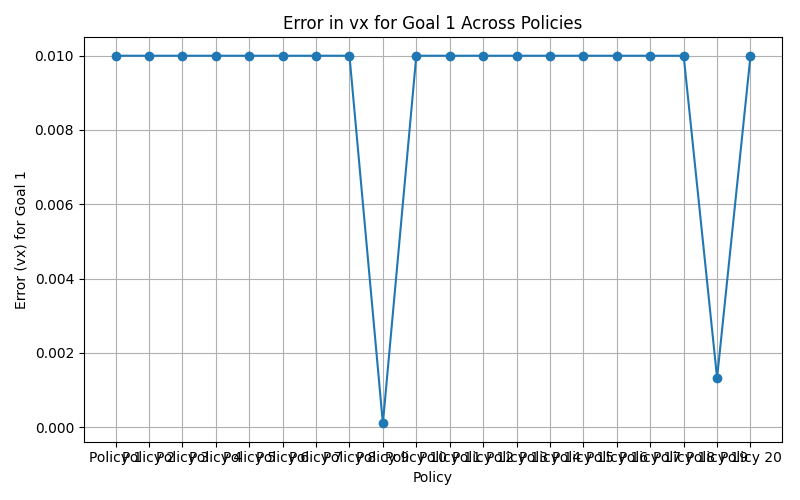
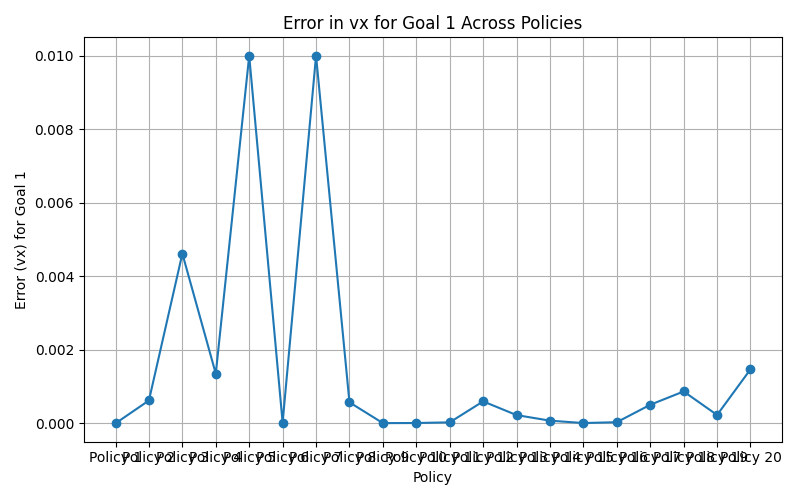
try to pretrain on multiple goals

Changed region(s): [[0.0312, 0.09, 0.9688, 0.87], [0.8125, 0.78, 0.875, 0.81], [0.9375, 0.09, 0.9688, 0.12]]

diff --git a/iterative_supervised_learning/examples/iterative_algorithm/behavioral_cloning_train_vc_policy.py b/iterative_supervised_learning/examples/iterative_algorithm/behavioral_cloning_train_vc_policy.py
@@ -1,0 +1,251 @@
+import torch
+import torch.nn as nn
+from torch.utils.data import DataLoader
+from omegaconf import OmegaConf
+
+from simulation import Simulation
+from contact_planner import ContactPlanner
+import utils
+import pinocchio as pin
+from database import Database
+
+import numpy as np
+# import matplotlib.pyplot as plt
+# import matplotlib
+# matplotlib.use('TkAgg')
+import random
+import hydra
+import os
+from tqdm import tqdm
+from datetime import datetime
+import h5py
+import pickle
+import wandb
+
+# set random seet for reproducability
+# seed = 42
+# random.seed(seed)
+# np.random.seed(seed)
+# torch.manual_seed(seed)
+
+# login to wandb
+wandb.login()
+
+
+class BehavioralCloning():  
+
+    def __init__(self, cfg):        
+        # configuration file (containing the hyper/parameters)
+        self.cfg = cfg
+        
+        # Model Parameters
+        self.action_type = cfg.action_type
+        self.normalize_policy_input = cfg.normalize_policy_input
+        
+        # Data related parameters 
+        self.n_state = cfg.n_state
+        self.n_action = cfg.n_action
+        self.goal_horizon = cfg.goal_horizon
+        
+        # Network related parameters
+        self.criterion = nn.L1Loss()
+        self.device = torch.device('cuda' if torch.cuda.is_available() else 'cpu')
+        print('Nvidia GPU availability is ' + str(torch.cuda.is_available()))
+        
+        # Training properties
+        self.n_epoch = cfg.n_epoch  # per iteration
+        self.batch_size = cfg.batch_size
+        self.n_train_frac = cfg.n_train_frac
+        self.learning_rate = cfg.learning_rate
+
+    
+    def initialize_network(self, input_size=0, output_size=0, num_hidden_layer=3, hidden_dim=512, batch_norm=True):
+        """initialize policy network
+
+        Args:
+            input_size (int, optional): input dimension size (state + goal). Defaults to 0.
+            output_size (int, optional): output dimension size (action). Defaults to 0.
+            num_hidden_layer (int, optional): number of hidden layers. Defaults to 3.
+            hidden_dim (int, optional): number of nodes per hidden layer. Defaults to 512.
+            batch_norm (bool, optional): if 1D Batch normalization should be performed. Defaults to True.
+
+        Returns:
+            network: the created pytorch policy network
+        """           
+        from networks import GoalConditionedPolicyNet
+        
+        network = GoalConditionedPolicyNet(input_size, output_size, num_hidden_layer=num_hidden_layer, 
+                                                hidden_dim=hidden_dim, batch_norm=batch_norm).to(self.device)
+        print("Policy Network initialized")
+        return network
+    
+
+    def train_network(self, network, batch_size=256, learning_rate=0.002, n_epoch=150, network_save_frequency=10):
+        """Train the policy network
+
+        Args:
+            network (_type_): policy network to train
+            batch_size (int, optional): training batch size. Defaults to 256.
+            learning_rate (float, optional): training learning rate. Defaults to 0.002.
+            n_epoch (int, optional): training epochs. Defaults to 150.
+
+        Returns:
+            network: the trained policy network
+        """             
+        
+        # get the training dataset size (use whole dataset)
+        train_set_size = len(self.database)
+
+        print("Dataset size: " + str(train_set_size))
+        print(f'Batch size: {batch_size}')
+        print(f'learning rate: {learning_rate}')
+        print(f'num of epochs: {n_epoch}')
+
+        # define training and test set size
+        n_train = int(self.n_train_frac*train_set_size)
+        n_test = train_set_size - n_train
+        
+        print(f'training data size: {n_train}')
+        print(f'validation data size: {n_test}')
+        
+        # Split data into training and validation
+        train_data, test_data = torch.utils.data.random_split(self.database, [n_train, n_test])
+        train_loader = DataLoader(train_data, batch_size, shuffle=True, drop_last=True)
+        test_loader = DataLoader(test_data, batch_size, shuffle=True, drop_last=True)
+        
+        # define training optimizer
+        
+        self.optimizer = torch.optim.Adam(network.parameters(), lr=learning_rate)
+            
+        tepoch = tqdm(range(n_epoch))
+        
+        # main training loop
+        for epoch in tepoch:
+            # set network to training mode
+            network.train()
+            
+            # training loss
+            train_loss, valid_loss = [], []
+            
+            # train network
+            for x, y in train_loader:
+                self.optimizer.zero_grad()
+                x, y = x.to(self.device).float(), y.to(self.device).float()
+                y_pred = network(x)
+                loss = self.criterion(y_pred, y)
+                
+                loss.backward()
+                self.optimizer.step()
+                train_loss.append(loss.item())
+            
+
+            # test network
+            test_running_loss = 0
+            network.eval()
+            for z, w in test_loader:
+                z, w = z.to(self.device).float(), w.to(self.device).float()
+                w_pred = network(z)
+                test_loss = self.criterion(w_pred, w)
+                valid_loss.append(test_loss.item())
+                
+            train_loss_avg = np.mean(train_loss)
+            valid_loss_avg = np.mean(valid_loss)
+            tepoch.set_postfix({'training loss': train_loss_avg,
+                                'validation loss': valid_loss_avg})
+            
+            # wandb log
+            wandb.log({'Training Loss': train_loss_avg,
+                       'Validation Loss': valid_loss_avg})
+            
+            if epoch>0 and epoch%network_save_frequency==0:
+                self.save_network(network, name=self.database.goal_type+'_'+str(epoch))
+        
+        # save final network
+        self.save_network(network, name=self.database.goal_type+'_'+str(n_epoch))    
+            
+        return network
+    
+    
+    def save_network(self, network, name='policy'):
+        """save trained network
+
+        Args:
+            network (_type_): trained policy network
+            name (str, optional): name of the network to save. Defaults to 'policy'.
+        """        
+        
+        savepath =  self.network_savepath + "/"+name+".pth"
+        
+        payload = {'network': network,
+                #    'optimizer': self.optimizer,
+                #    'scheduler': self.scheduler,
+                   'norm_policy_input': None}
+        
+        # save normalization parameters
+        if self.normalize_policy_input:
+            payload['norm_policy_input'] = self.database.get_database_mean_std()
+        
+        torch.save(payload, savepath)
+        print('Network Snapshot saved')
+        
+        
+    def run(self):
+        """run training
+        """           
+        
+        # NOTE: Initialize Network
+        self.cc_input_size = self.n_state + (self.goal_horizon * 3 * 4)
+        self.vc_input_size = self.n_state + 5  # phi, vx, vy, w
+        
+        self.output_size = self.n_action
+        
+        # Initialize policy network
+        self.vc_network = self.initialize_network(input_size=self.vc_input_size, output_size=self.output_size, 
+                                                    num_hidden_layer=self.cfg.num_hidden_layer, hidden_dim=self.cfg.hidden_dim,
+                                                    batch_norm=True)
+        
+        self.cc_network = self.initialize_network(input_size=self.cc_input_size, output_size=self.output_size, 
+                                                    num_hidden_layer=self.cfg.num_hidden_layer, hidden_dim=self.cfg.hidden_dim,
+                                                    batch_norm=True)
+        
+        # NOTE: Load database
+        self.database = Database(limit=self.cfg.database_size, norm_input=self.normalize_policy_input)
+        # filename = '/home/atari_ws/data/behavior_cloning/trot/bc_single_gait_multi_goal_with_stop/dataset/database_0.hdf5'
+        filename = '/home/atari_ws/iterative_supervised_learning/examples/iterative_algorithm/data/behavior_cloning/trot/Dec_04_2024_16_51_02/dataset/database_677971.hdf5'
+        self.database.load_saved_database(filename=filename)
+        
+        # Network saving
+        directory_path = os.path.dirname(filename)
+        self.network_savepath = directory_path + '/../network'
+        os.makedirs(self.network_savepath, exist_ok=True)
+        
+        # NOTE: Train Policy
+        wandb.init(project='bc_single_gait_multi_goal_with_stop', config={'goal_type':'cc'}, name='cc_training')
+        print('=== Training CC Policy ===')
+        self.database.set_goal_type('cc')
+        self.cc_network = self.train_network(self.cc_network, batch_size=self.batch_size, learning_rate=self.learning_rate, n_epoch=self.n_epoch, network_save_frequency=10)
+        # self.save_network(self.cc_network, name='cc_policy')
+        wandb.finish()
+        
+        wandb.init(project='bc_single_gait_multi_goal_with_stop', config={'goal_type':'vc'}, name='vc_training')
+        print('=== Training VC Policy ===')
+        self.database.set_goal_type('vc')
+        self.vc_network = self.train_network(self.vc_network, batch_size=self.batch_size, learning_rate=self.learning_rate, n_epoch=self.n_epoch, network_save_frequency=10)
+        # self.save_network(self.vc_network, name='vc_policy')
+        wandb.finish()
+            
+        
+@hydra.main(config_path='cfgs', config_name='bc_config')
+def main(cfg):
+    icc = BehavioralCloning(cfg) 
+    icc.run() 
+
+if __name__ == '__main__':
+    main()
+    
+        
+
+
+    
+
+

diff --git a/iterative_supervised_learning/examples/iterative_algorithm/test_policy_rollout_with_past_goals.py b/iterative_supervised_learning/examples/iterative_algorithm/test_policy_rollout_with_past_goals.py
@@ -620,21 +620,25 @@ class LocoSafeDagger():
                     # print([row[0] for row in policy_com_vel])
                     # print([row[1] for row in policy_com_vel])
                     
-                    # visualization
+                    # MSE error calculation
                     vx = [row[0] for row in policy_com_vel]  # First column (vx)
-                    vy = [row[1] for row in policy_com_vel]
-                    vx_mean = np.mean(vx)
-                    vy_mean = np.mean(vy)
-                    error_vx_his[i,j] = (vx_mean - v_des[0]) ** 2
-                    error_vy_his[i,j] = (vy_mean - v_des[1]) ** 2
+                    vy = [row[1] for row in policy_com_vel]  # Second column (vy)
+
+                    # Compute MSE for vx and vy
+                    mse_vx = np.mean([(v - v_des[0]) ** 2 for v in vx])  # MSE for vx
+                    mse_vy = np.mean([(v - v_des[1]) ** 2 for v in vy])  # MSE for vy
+
+                    error_vx_his[i, j] = mse_vx
+                    error_vy_his[i, j] = mse_vy
+
                     
                     # Save error_vx_his and error_vy_his to an Excel file
                     error_data = {
                         "error_vx_his": error_vx_his,
                         "error_vy_his": error_vy_his,
                     }
-                    # save_path = "./plot/error_data/error_data_20goals_warmup_renewed_policy.xlsx"  # Replace with your desired path
-                    save_path = "./plot/error_data/error_data_20goals_no_warmup_renewed_policy.xlsx" 
+                    save_path = "./plot/error_data/error_data_20goals_warmup_renewed_policy.xlsx"  # Replace with your desired path
+                    # save_path = "./plot/error_data/error_data_20goals_no_warmup_renewed_policy.xlsx" 
                     os.makedirs(os.path.dirname(save_path), exist_ok=True)  # Create directory if it doesn't exist
                     self.save_to_excel(save_path, error_data)
                     

diff --git a/iterative_supervised_learning/examples/iterative_algorithm/plot_vc_goal_error.py b/iterative_supervised_learning/examples/iterative_algorithm/plot_vc_goal_error.py
@@ -5,8 +5,8 @@ import os
 matplotlib.use('TkAgg')  # Use a non-interactive backend
 
 # Read data from the Excel file
-# file_path = "/home/atari_ws/iterative_supervised_learning/examples/iterative_algorithm/plot/error_data/error_data_20goals_warmup_renewed_policy.xlsx" 
-file_path = "/home/atari_ws/iterative_supervised_learning/examples/iterative_algorithm/plot/error_data/error_data_20goals_no_warmup_renewed_policy.xlsx" 
+file_path = "/home/atari_ws/iterative_supervised_learning/examples/iterative_algorithm/plot/error_data/error_data_20goals_warmup_renewed_policy.xlsx" 
+# file_path = "/home/atari_ws/iterative_supervised_learning/examples/iterative_algorithm/plot/error_data/error_data_20goals_no_warmup_renewed_policy.xlsx" 
 error_data = pd.read_excel(file_path, sheet_name=None)  # Read all sheets
 
 # Extract data for plotting
